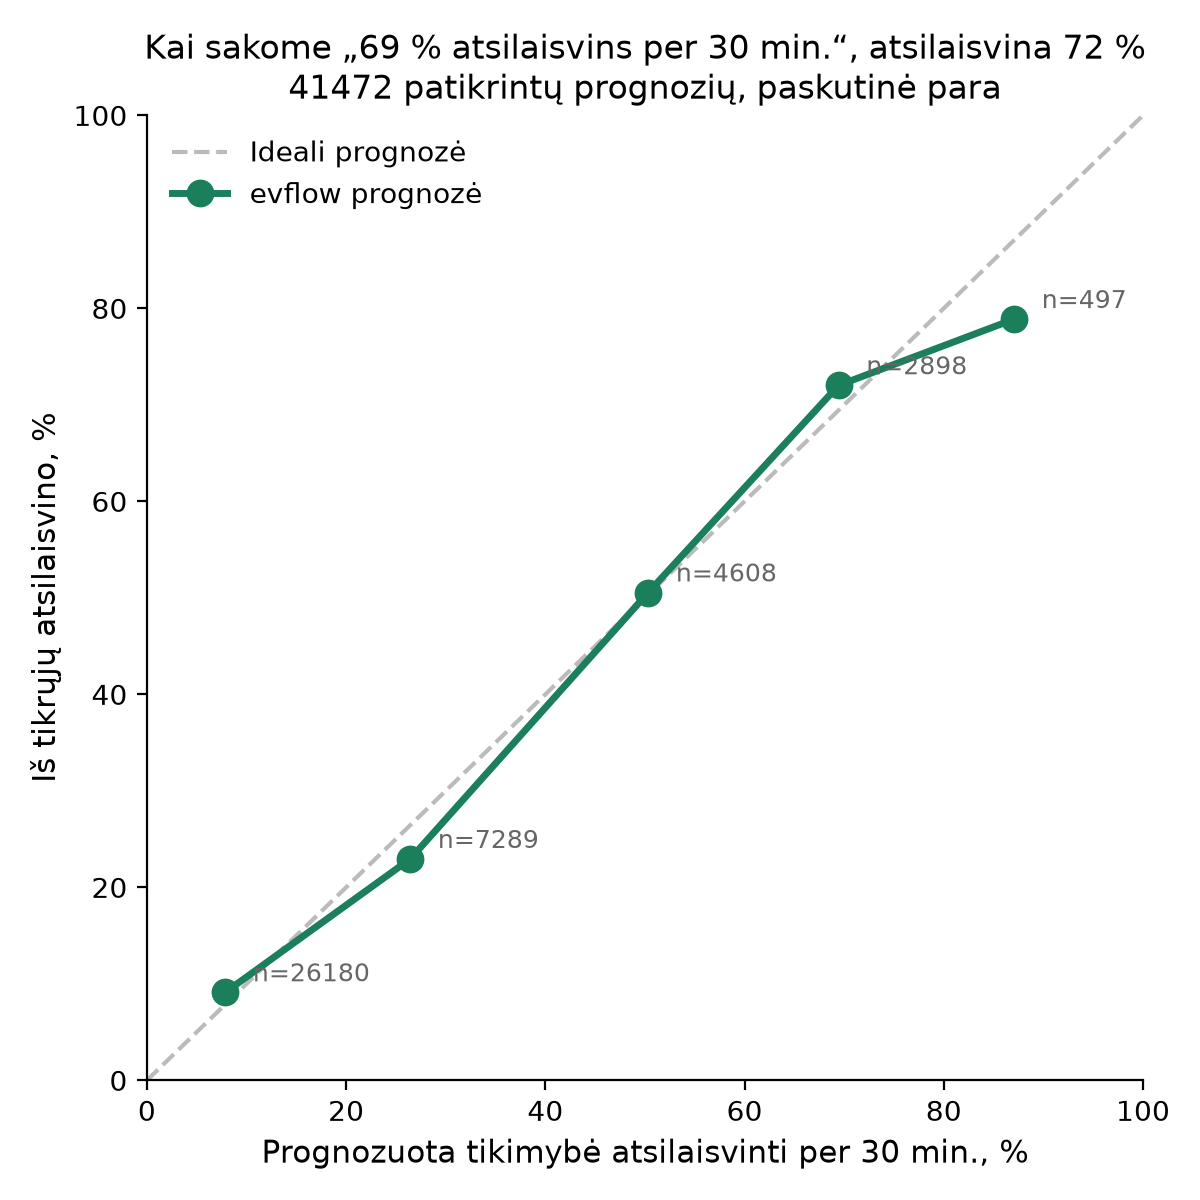
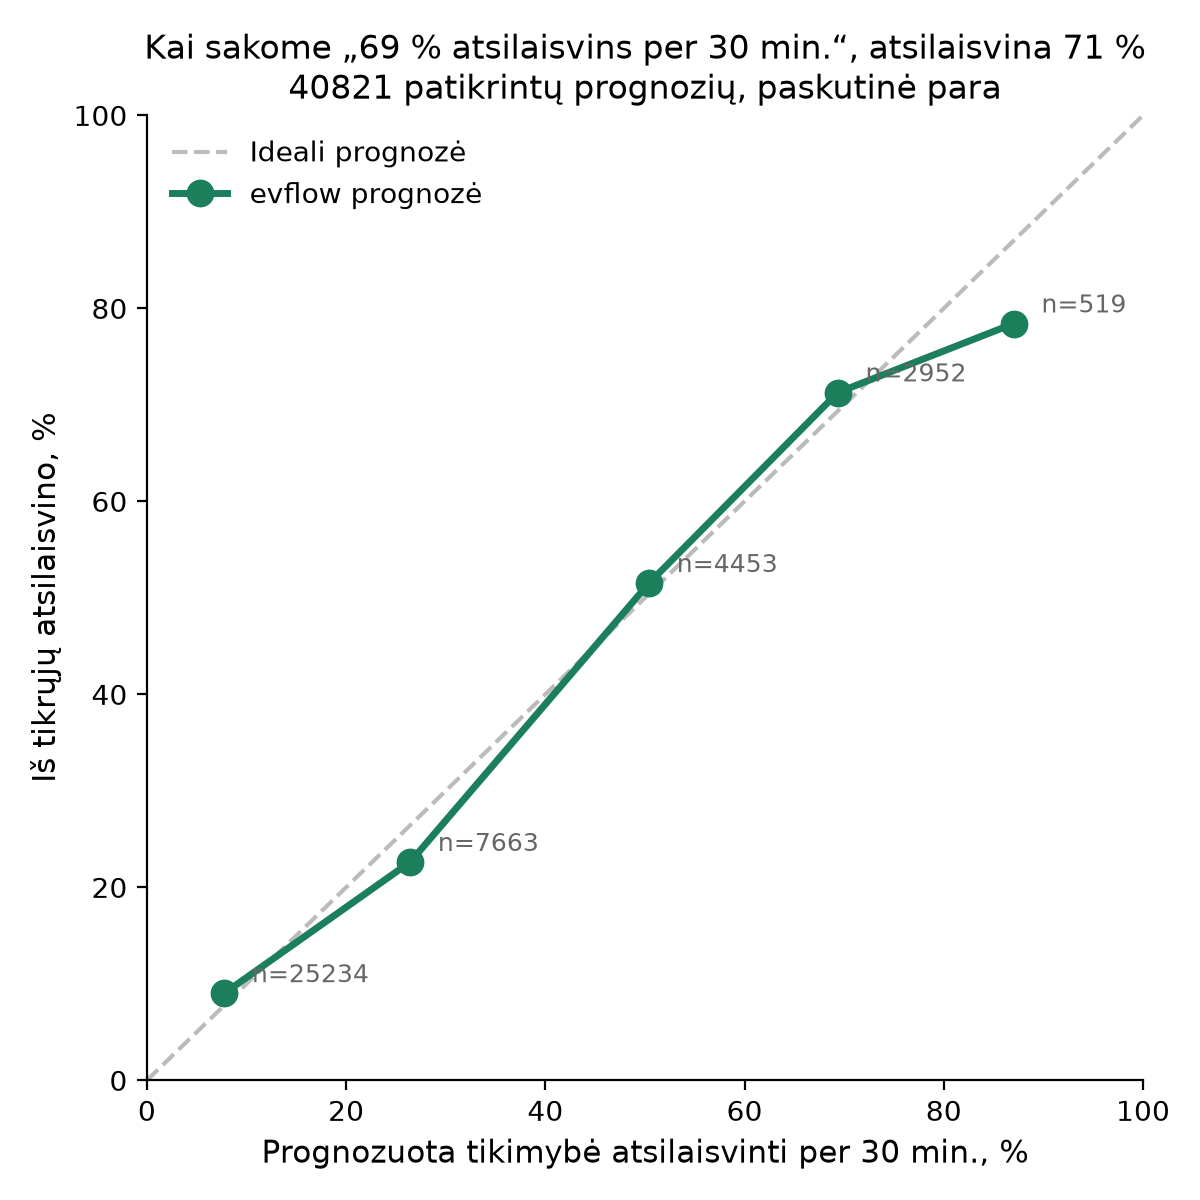
Calibrated '9 of 10' bound and shipped wait distribution for 'will it free up by T?'
- prediction.likely_by_min (q0.9 DC, q0.93 AC: backtest 90 % on both) replaces remaining_range_min
- prediction.remaining_cdf_min, station wait_cdf_min, wait_likely_by_min; meta.cdf_quantiles
- backtest: per-class coverage and P(free by 60/120/240 min) calibration

diff --git a/dashboard/index.html b/dashboard/index.html
@@ -370,7 +370,7 @@ details.how ul { margin: 0; padding: 0 16px 16px 34px; display: grid; gap: 6px; 
         <li><b>Blokavimas</b>: užsistovėjimo laikas, kai visoje stotelėje nebuvo nė vienos laisvos jungties, t. y. kažkas norėjo, bet negalėjo krauti.</li>
         <li><b>Neparduota energija</b>: blokavimo valandos × tipinė galia (AC iki 11 kW, DC 60 % nominalios, ne daugiau 100 kW) × stotelės tarifas. Tai viršutinė riba.</li>
         <li><b>Ar rasi vietą</b>: kokią dalį laiko tą valandą stotelėje buvo bent viena laisva jungtis. Žalia ≥80 %, geltona 50–80 %, raudona &lt;50 %. Backtest'as: kitą parą žaliose stotelėse laisva vieta buvo 98 % laiko, geltonose 72 %, raudonose 53 %.</li>
-        <li><b>Kada atsilaisvins</b>: iš praeities tos pačios galios įkrovimų, kurie jau truko tiek pat. „8 iš 10 kartų per X min.“ yra 80-asis procentilis; backtest'e pasitvirtino 77 % atvejų.</li>
+        <li><b>Kada atsilaisvins</b>: iš praeities tos pačios galios įkrovimų, kurie jau truko tiek pat. „Greičiausiai ~X“ yra mediana, „9 iš 10 kartų per Y“ – 90-asis procentilis (AC 93-iasis, nes AC sunkiau nuspėti); backtest'e pasitvirtino 90 % atvejų ir AC, ir DC.</li>
         <li><b>Tyli</b>: operatorius daugiau nei 24 val. neatsiuntė duomenų, todėl stotelės būsena greičiausiai pasenusi.</li>
         <li>API neskiria „krauna“ nuo „baigė, bet stovi prijungtas“, todėl užsistovėjimas yra įvertis pagal laiką. Su operatoriaus OCPP duomenimis jis būtų tikslus.</li>
       </ul>
@@ -675,9 +675,9 @@ details.how ul { margin: 0; padding: 0 16px 16px 34px; display: grid; gap: 6px; 
       `<span class="${i === now ? "now" : ""}" style="background:${lvColor(l)}" title="${hh(i)} – ${lvName(l)}"></span>`).join("");
     let wait = "";
     if (s.counts.free) wait = `Dabar laisvos <b>${s.counts.free}</b> iš ${s.counts.total}.`;
-    else if (s.wait_range_min && s.expected_wait_min != null) {
-      const m = Math.max(0, s.expected_wait_min - lag), hi = Math.max(0, s.wait_range_min[1] - lag);
-      wait = `Visos užimtos. Greičiausiai atsilaisvins per <b>~${dur(m)}</b>, 8 iš 10 kartų per <b>${dur(hi)}</b>`;
+    else if (s.wait_likely_by_min != null && s.expected_wait_min != null) {
+      const m = Math.max(0, s.expected_wait_min - lag), hi = Math.max(0, s.wait_likely_by_min - lag);
+      wait = `Visos užimtos. Greičiausiai atsilaisvins per <b>~${dur(m)}</b>, 9 iš 10 kartų per <b>${dur(hi)}</b>`;
     } else wait = "Visos užimtos, prognozei per mažai duomenų.";
     return `<div class="sec"><h4>Ar rasi vietą</h4>
       <span class="lvl"><i style="background:${lvColor(lv)}"></i>${hh(now)}: ${lvName(lv)}</span>
@@ -696,8 +696,8 @@ details.how ul { margin: 0; padding: 0 16px 16px 34px; display: grid; gap: 6px; 
         chip = stuck(s, c) ? `<span class="chip off">Užstrigo?</span>` : over ? `<span class="chip hot">+${fmt(busy - c.expected_charge_min)} min.</span>` : `<span class="chip busy">Užimta</span>`;
         x = `Užimta ${c.busy_min_is_lower_bound ? ">" : ""}${fmt(busy)} min. · norma ${fmt(c.expected_charge_min)} min.`;
         if (c.prediction && !stuck(s, c)) {
-          const rem = Math.max(0, c.prediction.expected_remaining_min - lag), hi = c.prediction.remaining_range_min ? Math.max(0, c.prediction.remaining_range_min[1] - lag) : null;
-          x += ` · greičiausiai per ~${dur(rem)}${hi != null ? `, 8 iš 10 kartų per ${dur(hi)}` : ""}`;
+          const rem = Math.max(0, c.prediction.expected_remaining_min - lag), hi = c.prediction.likely_by_min != null ? Math.max(0, c.prediction.likely_by_min - lag) : null;
+          x += ` · greičiausiai per ~${dur(rem)}${hi != null ? `, 9 iš 10 kartų per ${dur(hi)}` : ""}`;
         }
       } else chip = `<span class="chip off">${esc(c.status)}</span>`;
       return `<div class="conn"><span class="t">${plug(c.type)} · ${fmt(c.power_kw)} kW <span class="dim small">${esc(c.tariff || "")}</span></span>${chip}${x ? `<span class="x">${x}</span>` : ""}</div>`;

diff --git a/export_app.py b/export_app.py
@@ -54,7 +54,11 @@ LEVEL_GREEN = 0.8       # free at least 8 times out of 10
 LEVEL_YELLOW = 0.5      # free at least half the time
 MIN_HOUR_TICKS = 24     # 5-min observations of a clock hour (~2 days) before trusting that hour
 MIN_STATION_TICKS = 288 # one day of observations before trusting the station at all
-INTERVAL = (0.1, 0.8)   # range of remaining minutes; the app shows the upper end: "8 times out of 10 within B min."
+# "9 times out of 10 it frees up within B min." AC stays (all-day office parking) are harder to predict,
+# so a higher quantile is needed there to really cover 9 of 10 (backtest: q=0.9 covered only 85 % on AC).
+HI_Q = {"AC": 0.93, "DC": 0.9}
+# Remaining-minutes distribution shipped to the app, so it can answer "will it free up by 15:30?"
+CDF_Q = (0.1, 0.2, 0.3, 0.4, 0.5, 0.6, 0.7, 0.8, 0.9, 0.95)
 
 
 def parse_ts(s):
@@ -116,7 +120,7 @@ def round5(x, up=False):
     return int(-(-x // 5) * 5) if up else int(x // 5 * 5)
 
 
-def combine_wait(samples, qs=(INTERVAL[0], 0.5, INTERVAL[1])):
+def combine_wait(samples, qs=CDF_Q):
     """Minutes until the first of several busy connectors frees up.
 
     samples: one sorted list of possible remaining minutes per busy connector (from EndModel).
@@ -411,12 +415,12 @@ class EndModel:
         for h in (15, 30, 60):
             out[f"p_free_{h}min"] = round(bisect.bisect_right(rem, h) / len(rem), 2)
         out["expected_remaining_min"] = round(statistics.median(rem))
-        lo, hi = round5(quantile(rem, INTERVAL[0])), round5(quantile(rem, INTERVAL[1]), up=True)
-        out["remaining_range_min"] = [lo, max(hi, lo + 5)]
+        hi = max(round5(quantile(rem, HI_Q[cls[:2]]), up=True), 5)
+        out["likely_by_min"] = hi                                   # "9 iš 10 kartų per {hi} min."
+        out["remaining_cdf_min"] = [round(quantile(rem, q)) for q in CDF_Q]
         out["explain"] = (
-            f"Iš {len(rem)} panašių įkrovimų ({basis}), kurie jau truko {round(elapsed)} min., "
-            f"{round(out['p_free_30min'] * 100)} % baigėsi per 30 min., "
-            f"8 iš 10 baigėsi per {max(hi, lo + 5)} min."
+            f"Iš {len(rem)} panašių įkrovimų ({basis}), kurie jau truko {round(elapsed)} min.: "
+            f"pusė baigėsi per {out['expected_remaining_min']} min., 9 iš 10 per {hi} min."
         )
         out["_samples"] = rem
         return out
@@ -510,14 +514,15 @@ def main():
         silent = data_age is not None and data_age > STUCK_MIN
         # waiting estimate: 0 if a free connector, else when the first busy connector frees up
         if silent:
-            wait, wait_range = None, None
+            wait, wait_by, wait_cdf = None, None, None
         elif statuses["Laisva"]:
-            wait, wait_range = 0, [0, 0]
+            wait, wait_by, wait_cdf = 0, 0, None
         else:
             w = combine_wait([x["prediction"]["_samples"] for x in conn_out
                               if x["status"] == "Užimta" and "prediction" in x])
-            wait = w[1] if w else None
-            wait_range = [round5(w[0]), max(round5(w[2], up=True), round5(w[0]) + 5)] if w else None
+            wait = w[CDF_Q.index(0.5)] if w else None
+            wait_by = max(round5(w[CDF_Q.index(0.9)], up=True), 5) if w else None
+            wait_cdf = w
         for x in conn_out:
             x.get("prediction", {}).pop("_samples", None)
 
@@ -568,7 +573,8 @@ def main():
                        "broken": statuses["Neveikia"], "unknown": statuses["Nežinoma"],
                        "overstaying": sum(1 for x in conn_out if x.get("overstay"))},
             "expected_wait_min": wait,
-            "wait_range_min": wait_range,
+            "wait_likely_by_min": wait_by,
+            "wait_cdf_min": wait_cdf,
             "availability": availability,
             "reliability": {
                 "score": reliability,
@@ -599,7 +605,7 @@ def main():
             "availability_levels": {"green": LEVEL_GREEN, "yellow": LEVEL_YELLOW,
                                     "labels": {"green": "Dažniausiai laisva", "yellow": "Kartais užimta",
                                                "red": "Dažnai užimta", "unknown": "Mažai duomenų"}},
-            "interval": "8 iš 10"}
+            "cdf_quantiles": list(CDF_Q)}
     with open(os.path.join(args.out, "stations.json"), "w", encoding="utf-8") as f:
         json.dump({"meta": meta, "stations": out_stations}, f, ensure_ascii=False, separators=(",", ":"))
 

diff --git a/backtest.py b/backtest.py
@@ -20,7 +20,7 @@ import statistics
 from collections import defaultdict
 from datetime import timedelta
 
-from export_app import (LT, MIN_HOUR_TICKS, MIN_STATION_TICKS, EndModel, build_grid, level,
+from export_app import (CDF_Q, LT, MIN_HOUR_TICKS, MIN_STATION_TICKS, EndModel, build_grid, level,
                         load_events, load_stations, max_kw, power_class, sessions_and_current)
 
 H = 30            # horizon the app shows in colour (p_free_30min)
@@ -72,12 +72,14 @@ def main():
                 continue
             y = 1 if e is not None and e <= t + timedelta(minutes=H) else 0
             remaining = (e - t).total_seconds() / 60 if e is not None else None
-            hi = p["remaining_range_min"][1]
+            hi = p["likely_by_min"]
             if e is not None:
                 within = (e - t).total_seconds() / 60 <= hi
             else:
                 within = False if (t_end - t).total_seconds() / 60 > hi else None
-            rows.append({"p": p[f"p_free_{H}min"], "base": class_rate.get(cls, 0.5), "y": y, "within": within,
+            by = {h: (p_by(p["remaining_cdf_min"], h), None if e is None and (t_end - t).total_seconds() / 60 < h
+                      else int(e is not None and (e - t).total_seconds() / 60 <= h)) for h in (60, 120, 240)}
+            rows.append({"by": by, "p": p[f"p_free_{H}min"], "base": class_rate.get(cls, 0.5), "y": y, "within": within,
                          "cls": cls, "pred_rem": p["expected_remaining_min"], "rem": remaining})
         t += timedelta(minutes=STEP_MIN)
 
@@ -129,13 +131,35 @@ def main():
 
     known = [r["within"] for r in rows if r["within"] is not None]
     if known:
-        print(f"\n„8 iš 10 kartų atsilaisvina per X min.“: iš tikrųjų per X min. atsilaisvino "
+        print(f"\n„9 iš 10 kartų atsilaisvina per X min.“: iš tikrųjų per X min. atsilaisvino "
               f"{100 * sum(known) / len(known):.0f} % (n={len(known)})")
+        for g in ("AC", "DC"):
+            k = [r["within"] for r in rows if r["within"] is not None and r["cls"].startswith(g)]
+            if k:
+                print(f"  {g}: {100 * sum(k) / len(k):.0f} % (n={len(k)})")
+
+    print("\n„Tikimybė atsilaisvinti iki tavo laiko“ (iš remaining_cdf_min, kaip skaičiuoja app'as):")
+    for h in (60, 120, 240):
+        k = [r["by"][h] for r in rows if r["by"][h][1] is not None]
+        for lo, hi_ in ((0, .3), (.3, .7), (.7, 1.01)):
+            b = [(pp, y) for pp, y in k if lo <= pp < hi_]
+            if b:
+                print(f"  per {h:3d} min., sakėme {lo*100:3.0f}–{min(hi_, 1)*100:3.0f} %: vid. {100 * statistics.mean(x for x, _ in b):3.0f} %, "
+                      f"iš tikrųjų {100 * statistics.mean(y for _, y in b):3.0f} % (n={len(b)})")
 
     levels_check(events, stations, cutoff, t_end, ivs)
 
     if args.plot:
         plot(calib, args.plot, model_b, base_b, len(rows))
+
+
+def p_by(cdf, t, qs=CDF_Q):
+    """P(frees up within t minutes) by linear interpolation of the shipped quantiles."""
+    pts = [(0.0, 0.0)] + list(zip(cdf, qs))
+    for (m0, q0), (m1, q1) in zip(pts, pts[1:]):
+        if t <= m1:
+            return q0 + (q1 - q0) * (t - m0) / (m1 - m0) if m1 > m0 else q1
+    return qs[-1] + (1 - qs[-1]) * 0.5     # beyond the last quantile: between 95 % and 100 %
 
 
 def levels_check(events, stations, cutoff, t_end, ivs):

diff --git a/APP_DATA.md b/APP_DATA.md
@@ -22,7 +22,8 @@ Visi laikai UTC (ISO, `Z`), galios kW, trukmės minutėmis.
     "max_power_kw": 150,
     "counts": { "total", "free", "busy", "broken", "unknown", "overstaying" },
     "expected_wait_min": 0 | 23 | null,      // 0 = yra laisva jungtis; null = nežinoma. Kada atsilaisvins PIRMA iš užimtų jungčių (mediana)
-    "wait_range_min": [0, 40] | null,        // [10-as, 80-as procentilis]; rodyk tik viršų: „8 iš 10 kartų per 40 min.“
+    "wait_likely_by_min": 40 | null,         // „9 iš 10 kartų atsilaisvins per 40 min.“ (pirma iš užimtų jungčių); 0 = yra laisva
+    "wait_cdf_min": [3, 6, 9, 12, 15, 19, 24, 30, 40, 52] | null,  // laukimo minutės ties meta.cdf_quantiles (10 %, 20 % … 90 %, 95 %)
     "availability": {                        // AR RASI VIETĄ: pagal istoriją, nepriklauso nuo dabartinės būsenos
       "level": "green" | "yellow" | "red" | null,   // dabartinei Lietuvos valandai; null = mažai duomenų
       "level_overall": "green" | ...,               // visos paros
@@ -61,7 +62,8 @@ Visi laikai UTC (ISO, `Z`), galios kW, trukmės minutėmis.
       "prediction": {                        // gali nebūti, jei per mažai istorijos
         "p_free_15min": 0.24, "p_free_30min": 0.64, "p_free_60min": 0.92,
         "expected_remaining_min": 23,        // mediana
-        "remaining_range_min": [0, 50],      // [10-as, 80-as procentilis]; rodyk „8 iš 10 kartų per 50 min.“
+        "likely_by_min": 50,                 // „9 iš 10 kartų atsilaisvina per 50 min.“ (backtest: 90 % AC ir DC)
+        "remaining_cdf_min": [2, 6, 10, 15, 23, 30, 38, 45, 50, 70],  // likusios minutės ties meta.cdf_quantiles
         "basis": "stotelės istorija", "basis_n": 25,
         "explain": "Iš 25 panašių įkrovimų (stotelės istorija), kurie jau truko 4 min., 64 % baigėsi per 30 min."
       }
@@ -73,7 +75,9 @@ Visi laikai UTC (ISO, `Z`), galios kW, trukmės minutėmis.
 `class`: `AC_11` (≤11 kW), `AC_22` (<43), `DC_50` (43–60), `DC_100` (61–149), `DC_150` (150+).
 
 `meta.availability_levels`: `{"green": 0.8, "yellow": 0.5, "labels": {...}}`. Žalia = laisva vieta ≥80 % laiko tą valandą („Dažniausiai laisva“), geltona 50–80 % („Kartais užimta“), raudona <50 % („Dažnai užimta“). Ribas imk iš čia, nekoduok app'e.
-Backtest'as (`python backtest.py`): kitą parą žaliose stotelėse laisva vieta buvo 98 % laiko, geltonose 72 %, raudonose 53 %; „8 iš 10 kartų per X min.“ pasitvirtino 77 %.
+Backtest'as (`python backtest.py`): kitą parą žaliose stotelėse laisva vieta buvo 98 % laiko, geltonose 72 %, raudonose 53 %; „9 iš 10 kartų per X min.“ pasitvirtino 90 % (AC ir DC); tikimybė „atsilaisvins iki T“ iš `*_cdf_min` sutampa su realybe ±3 p. p.
+
+**Tikimybė atsilaisvinti iki laiko T** (T minučių nuo dabar, atėmus lag): tiesinė interpoliacija tarp taškų `(0 min, 0)`, `(cdf[i], cdf_quantiles[i])`; po paskutinio taško – 97 %. Pvz. `cdf = [..]`, T = 45 → tarp 80 % (40 min) ir 90 % (50 min) → 85 %.
 
 ## `city_stats.json` (operatorių ir miesto dashboard'ui)
 

diff --git a/PITCH_FAKTAI.md b/PITCH_FAKTAI.md
@@ -47,7 +47,9 @@ Metodas: modelis treniruojamas tik su sesijomis iki 2026-10-08 22:28. Tada visą
 **Spalvos „ar rasi vietą“ ir intervalas** (pridėta po mentoriaus patarimo):
 - Stotelė žalia / geltona / raudona pagal tai, kaip dažnai tą valandą būna bent viena laisva jungtis (≥80 % / 50–80 % / <50 %), nepriklausomai nuo to, kas dedasi dabar.
 - Patikrinta su kita para: žaliose laisva vieta buvo **98 %** laiko, geltonose **72 %**, raudonose **53 %**.
-- „8 iš 10 kartų atsilaisvina per X min.“ pasitvirtino **77 %** atvejų (38 750 patikrinimų).
+- „9 iš 10 kartų atsilaisvina per X min.“ pasitvirtino **90 %** atvejų ir lėtiesiems (AC), ir greitiesiems (DC) krovikliams (36 412 patikrinimų).
+- Planuojančiam: „Ar atsilaisvins iki 15:30?“ – kai sakėme ~87 % per 2 val., iš tikrųjų atsilaisvino 85 %.
+- AC sunkiau nuspėti (žmonės palieka auto darbe visai dienai): ten 9 iš 10 riba būna 5–9 val. Tokiais atvejais app'as sąžiningai sako „sunku nuspėti“ ir siūlo kitą stotelę.
 
 Skaidrei siūlau: grafiką ir sakinį *„Kai sakome 70 %, atsilaisvina 71 %. Patikrinta su 45 000 prognozių.“*
 
